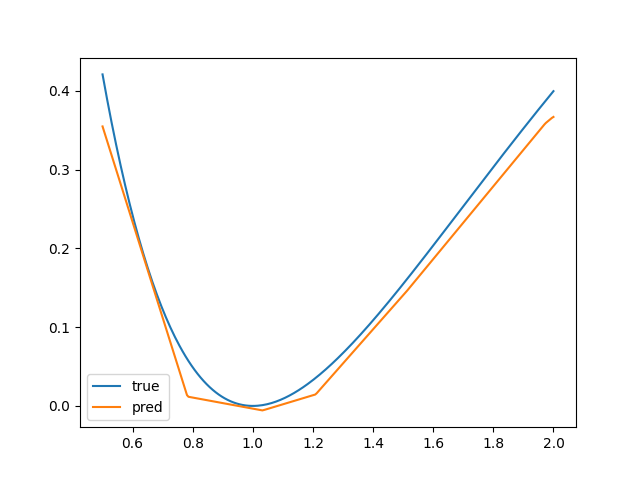
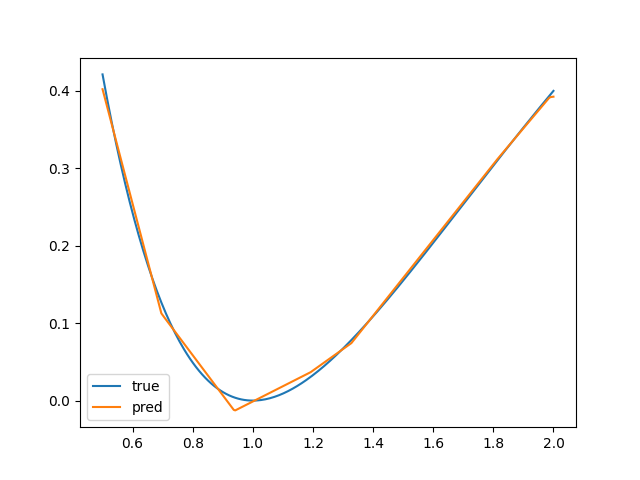
Added problem logic
- Can now specify problem in json setup file
- Morse solves the morse problem etc.
- Set scaffold for AB3 four-body problem next

diff --git a/src/neuralnet.py b/src/neuralnet.py
@@ -337,6 +337,7 @@ class Network:
         # current inputs/references to GPU
         # send back loss to cpu for each batch
 
+        ninputs = len(self.training_inputs)
         feedforward_time = 0.0
         backpropagation_time = 0.0
         for iepoch in range(nepochs):
@@ -399,7 +400,7 @@ class Network:
         print(f"Feedforward time: {feedforward_time}")
         print(f"Backpropagation time: {backpropagation_time}")
 
-    def save_weights(self, filename):
+    def save_weights(self, filename, norm=None):
         model_dict = {}
         # Starting after input layer, save weights/biases
         for i, layer in enumerate(self.layers[1:]):
@@ -408,6 +409,10 @@ class Network:
                 layer.biases = layer.biases_gpu.get()
             model_dict[f"layer_{i}_weights"] = layer.weights
             model_dict[f"layer_{i}_biases"] = layer.biases
+
+        if norm is not None:
+            model_dict["mean_e"] = np.float32(norm["mean_e"])
+            model_dict["std_e"] = np.float32(norm["std_e"])
 
         # np.savez stores multiple arrays into single file
         np.savez_compressed(filename, **model_dict)
@@ -423,7 +428,14 @@ class Network:
                 if layer.device == "gpu":
                     layer.weights_gpu.set(layer.weights)
                     layer.biases_gpu.set(layer.biases)
+            norm = None
+            if "mean_e" in model and "std_e" in model:
+                norm = {
+                    "mean_e": float(model["mean_e"]),
+                    "std_e": float(model["std_e"]),
+                }
         print(f"Model weights loaded from {filename}")
+        return norm
 
 
 def morse_potential(De, re, a, r):
@@ -465,24 +477,55 @@ def load_setup(filename):
     return run_data
 
 
+class Morse:
+    def __init__(self):
+        self.De = 1.0
+        self.re = 1.0
+        self.a = 1.0
+        self.min_rvalue = 0.5
+        self.max_rvalue = 2.0
+
+    def _normalize_r(self, rvalues):
+        return (rvalues - (self.max_rvalue + self.min_rvalue) / 2.0) / (
+            self.max_rvalue - self.min_rvalue
+        )
+
+    def training_data(self, ninputs):
+        rvalues = np.random.uniform(
+            self.min_rvalue, self.max_rvalue, (ninputs,)
+        ).astype(np.float32)
+        erefs = np.array(
+            [morse_potential(self.De, self.re, self.a, r) for r in rvalues],
+            dtype=np.float32,
+        )
+        mean_e = np.mean(erefs)
+        std_e = np.std(erefs)
+        return (
+            self._normalize_r(rvalues),
+            (erefs - mean_e) / std_e,
+            {"mean_e": mean_e, "std_e": std_e},
+        )
+
+    def eval_grid(self, n_test=300):
+        """Sorted r grid for plotting (not the random training set)."""
+        r_test = np.linspace(self.min_rvalue, self.max_rvalue, n_test, dtype=np.float32)
+        r_test_norm = self._normalize_r(r_test).reshape(1, n_test)
+        true_energy = np.array(
+            [morse_potential(self.De, self.re, self.a, r) for r in r_test],
+            dtype=np.float32,
+        )
+        return r_test, r_test_norm, true_energy
+
+
+def train_AB3(): ...
+
+
+def eval_AB3(): ...
+
+
 if __name__ == "__main__":
 
     parser = argparse.ArgumentParser(description="Train or evaluate neural net")
-
-    # # Name of the model to train or evaluate (REQUIRED)
-    # parser.add_argument("model", help="Name of model to train or load")
-    # parser.add_argument(
-    #     "--epochs", type=int, default=500, help="Number of training epochs"
-    # )
-
-    # # Learning rate for training
-    # parser.add_argument(
-    #     "-lr",
-    #     "--learning_rate",
-    #     type=float,
-    #     default=0.05,
-    #     help="Number of training epochs",
-    # )
 
     parser.add_argument("run", help="Name of setup run.json to train or evaluate")
 
@@ -530,59 +573,49 @@ if __name__ == "__main__":
     model_path.mkdir(parents=True, exist_ok=True)
     filename = f"models/{run}_{device}.npz"
 
-    # Set morse params
-    De = 1.0
-    re = 1.0
-    a = 1.0
-    min_rvalue = 0.5
-    max_rvalue = 2.0
-
-    # Randomly generate a set of distances
-    rvalues = np.random.uniform(min_rvalue, max_rvalue, (ninputs,)).astype(np.float32)
-
-    # Generate the reference energies for each of these distances
-    erefs = np.empty((ninputs,), dtype=np.float32)
-    for idx, r in enumerate(rvalues):
-        erefs[idx] = morse_potential(De, re, a, r)
-    mean_e = np.mean(erefs)
-    std_e = np.std(erefs)
-    erefs_normalized = (erefs - mean_e) / std_e
-
-    rvalues_normalized = (rvalues - (max_rvalue + min_rvalue) / 2.0) / (
-        max_rvalue - min_rvalue
-    )
-
     # Train the model
     if args.train:
-
         print(f"training rate: {training_rate}")
-        net = Network(
-            architecture, rvalues_normalized, erefs_normalized, batch_size, device
-        )
+
+        if problem == "Morse":
+            problem_obj = Morse()
+            r_norm, e_norm, norm = problem_obj.training_data(ninputs)
+        elif problem == "AB3":
+            ...
+        else:
+            raise ValueError(f"Problem type not recognized: {problem}")
+
+        net = Network(architecture, r_norm, e_norm, batch_size, device)
         start_time = time.time()
         net.train(epochs, training_rate)
         print(f"Training time: {time.time() - start_time}")
-        net.save_weights(filename)
+        net.save_weights(filename, norm=norm)
 
     # Evaluate model performance and plot
     elif args.eval:
 
         n_test = 300
+        if problem == "Morse":
+            problem_obj = Morse()
+            r_test, r_test_norm, true_energy = problem_obj.eval_grid(n_test)
+        elif problem == "AB3":
+            ...
+        else:
+            raise ValueError(f"Problem type not recognized: {problem}")
+
         net_batch = max(batch_size, n_test)
         net = Network(
             architecture,
-            rvalues_normalized,
-            erefs_normalized,
+            np.zeros((1, n_test), dtype=np.float32),
+            np.zeros((1, n_test), dtype=np.float32),
             net_batch,
             device,
         )
-        net.load_weights(filename)
-        r_test = np.linspace(min_rvalue, max_rvalue, n_test).astype(np.float32)
-
-        r_test_norm = (r_test - (max_rvalue + min_rvalue) / 2.0) / (
-            max_rvalue - min_rvalue
-        )
-        r_test_norm = r_test_norm.reshape(1, n_test)
+        norm = net.load_weights(filename)
+        if norm is None:
+            raise ValueError(
+                f"Missing mean_e/std_e in {filename}; retrain with current code."
+            )
 
         # perform forward pass through trained net
         for layer in net.layers:
@@ -593,14 +626,11 @@ if __name__ == "__main__":
         for ilayer in range(1, len(net.layers)):
             net.layers[ilayer].feedforward()
 
-        # extract energy and un-normalize
         if net.device == "gpu":
             pred_e_norm = np.asarray(net.layers[-1].activations_gpu.get())[0, :n_test]
         else:
             pred_e_norm = net.layers[-1].activations[0, :n_test]
-        pred_energy = (pred_e_norm * std_e) + mean_e
-
-        true_energy = np.array([morse_potential(De, re, a, r) for r in r_test])
+        pred_energy = (pred_e_norm * norm["std_e"]) + norm["mean_e"]
 
         plt.plot(r_test, true_energy, label="true")
         plt.plot(r_test, pred_energy, label="pred")